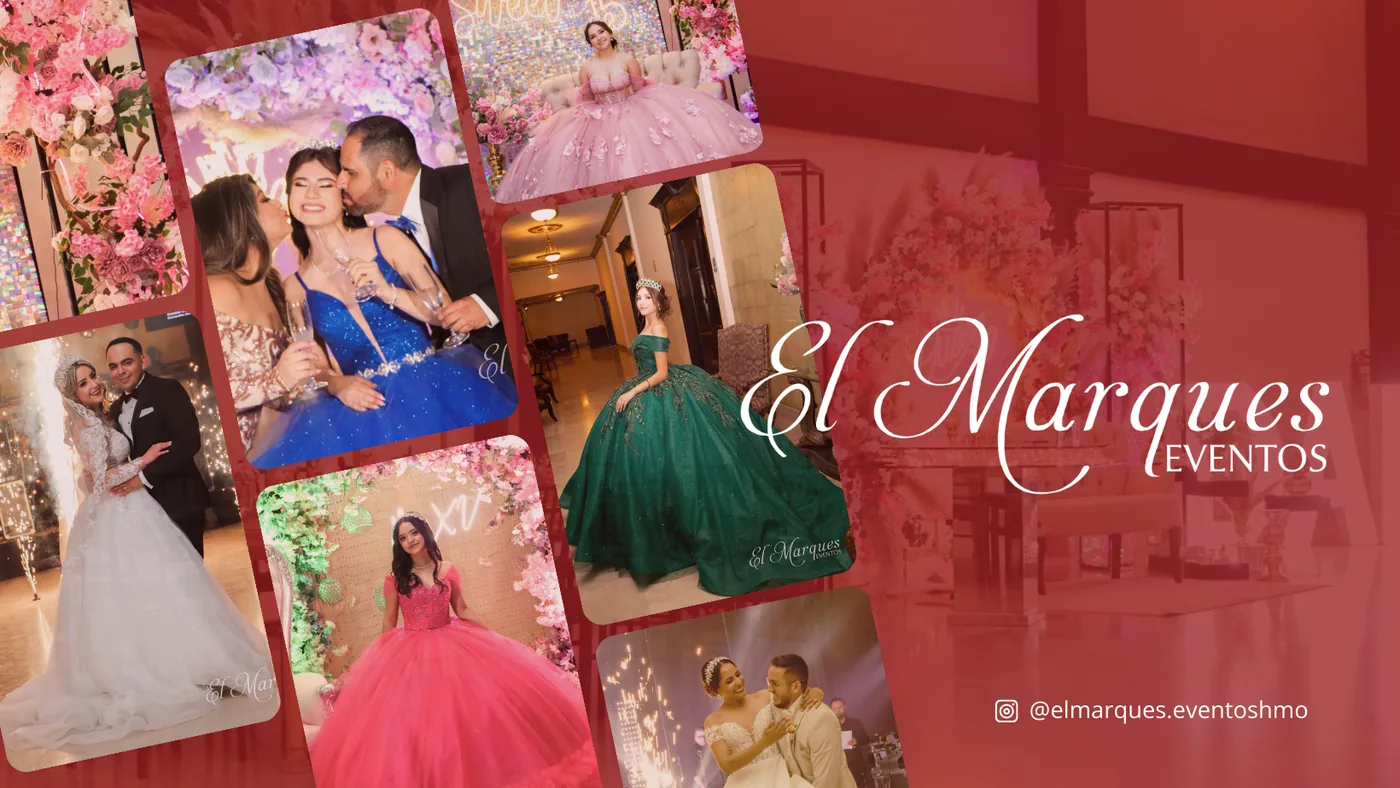
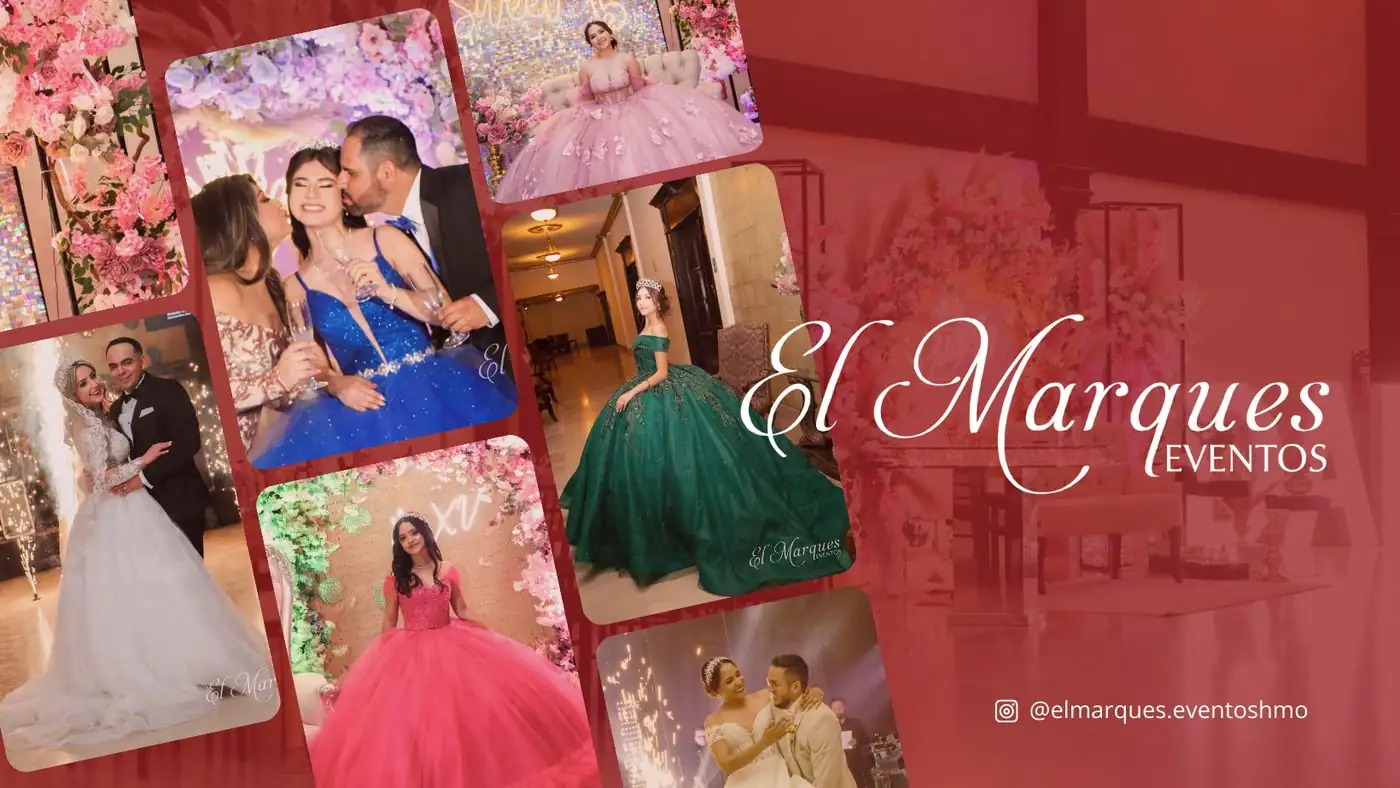
perf: optimizaciones móvil – preconnects, hero WebP, CSS async
- Agrega crossorigin a preconnects de Firebase/Firestore/googleapis
  (sin crossorigin, el browser no reutilizaba la conexión para CORS fetch)
- Elimina preconnect de apis.google.com (>4 warnings Lighthouse)
- Agrega <link rel=preload> para hero-fallback.webp en index.html
- Hace animations.css y responsive.css no-bloqueantes (media=print)
  en todas las páginas (solo keyframes y reveal, no crítico para FCP)
- Recomprime hero-fallback.webp: 131 KB → 79 KB (quality 60)
- CSS cache: 1 día → 1 semana en firebase.json

diff --git a/index.html b/index.html
@@ -19,11 +19,11 @@
   <script type="application/ld+json" id="schema-localbusiness"></script>
   <link rel="preconnect" href="https://fonts.googleapis.com">
   <link rel="preconnect" href="https://fonts.gstatic.com" crossorigin>
-  <link rel="preconnect" href="https://salon-primavera.firebaseapp.com">
-  <link rel="preconnect" href="https://firestore.googleapis.com">
-  <link rel="preconnect" href="https://www.googleapis.com">
-  <link rel="preconnect" href="https://apis.google.com">
+  <link rel="preconnect" href="https://salon-primavera.firebaseapp.com" crossorigin>
+  <link rel="preconnect" href="https://firestore.googleapis.com" crossorigin>
+  <link rel="preconnect" href="https://www.googleapis.com" crossorigin>
   <link rel="preload" as="image" href="assets/logo.webp" type="image/webp">
+  <link rel="preload" as="image" href="assets/hero-fallback.webp" type="image/webp">
   <link rel="stylesheet" href="https://fonts.googleapis.com/css2?family=Great+Vibes&family=Cormorant+Garamond:ital,wght@0,300;0,400;0,600;1,300;1,400&family=Playfair+Display:ital,wght@0,400;0,700;1,400&display=swap" media="print" onload="this.media='all'">
   <noscript><link rel="stylesheet" href="https://fonts.googleapis.com/css2?family=Great+Vibes&family=Cormorant+Garamond:ital,wght@0,300;0,400;0,600;1,300;1,400&family=Playfair+Display:ital,wght@0,400;0,700;1,400&display=swap"></noscript>
   <link rel="icon" type="image/jpeg" href="assets/logo.jpg">
@@ -31,8 +31,10 @@
   <link rel="stylesheet" href="css/reset.css">
   <link rel="stylesheet" href="css/layout.css">
   <link rel="stylesheet" href="css/components.css">
-  <link rel="stylesheet" href="css/animations.css">
-  <link rel="stylesheet" href="css/responsive.css">
+  <link rel="stylesheet" href="css/animations.css" media="print" onload="this.media='all'">
+  <noscript><link rel="stylesheet" href="css/animations.css"></noscript>
+  <link rel="stylesheet" href="css/responsive.css" media="print" onload="this.media='all'">
+  <noscript><link rel="stylesheet" href="css/responsive.css"></noscript>
 </head>
 <body>
 

diff --git a/espacios.html b/espacios.html
@@ -6,10 +6,10 @@
   <title>Nuestros Espacios – Eventos El Marqués | Ciudad Obregón</title>
   <link rel="preconnect" href="https://fonts.googleapis.com">
   <link rel="preconnect" href="https://fonts.gstatic.com" crossorigin>
-  <link rel="preconnect" href="https://salon-primavera.firebaseapp.com">
-  <link rel="preconnect" href="https://firestore.googleapis.com">
-  <link rel="preconnect" href="https://www.googleapis.com">
-  <link rel="preconnect" href="https://apis.google.com">
+  <link rel="preconnect" href="https://salon-primavera.firebaseapp.com" crossorigin>
+  <link rel="preconnect" href="https://firestore.googleapis.com" crossorigin>
+  <link rel="preconnect" href="https://www.googleapis.com" crossorigin>
+  
   <link rel="preload" as="image" href="assets/logo.webp" type="image/webp">
   <link rel="stylesheet" href="https://fonts.googleapis.com/css2?family=Playfair+Display:wght@400;600;700&display=swap" media="print" onload="this.media='all'">
   <noscript><link rel="stylesheet" href="https://fonts.googleapis.com/css2?family=Playfair+Display:wght@400;600;700&display=swap"></noscript>
@@ -17,8 +17,10 @@
   <link rel="stylesheet" href="css/reset.css">
   <link rel="stylesheet" href="css/layout.css">
   <link rel="stylesheet" href="css/components.css">
-  <link rel="stylesheet" href="css/animations.css">
-  <link rel="stylesheet" href="css/responsive.css">
+  <link rel="stylesheet" href="css/animations.css" media="print" onload="this.media='all'">
+  <noscript><link rel="stylesheet" href="css/animations.css"></noscript>
+  <link rel="stylesheet" href="css/responsive.css" media="print" onload="this.media='all'">
+  <noscript><link rel="stylesheet" href="css/responsive.css"></noscript>
 </head>
 <body>
   <!-- ══ PAGE HERO ════════════════════════════════════════════ -->

diff --git a/eventos.html b/eventos.html
@@ -6,10 +6,10 @@
   <title>Tipos de Eventos – Eventos El Marqués | Ciudad Obregón</title>
   <link rel="preconnect" href="https://fonts.googleapis.com">
   <link rel="preconnect" href="https://fonts.gstatic.com" crossorigin>
-  <link rel="preconnect" href="https://salon-primavera.firebaseapp.com">
-  <link rel="preconnect" href="https://firestore.googleapis.com">
-  <link rel="preconnect" href="https://www.googleapis.com">
-  <link rel="preconnect" href="https://apis.google.com">
+  <link rel="preconnect" href="https://salon-primavera.firebaseapp.com" crossorigin>
+  <link rel="preconnect" href="https://firestore.googleapis.com" crossorigin>
+  <link rel="preconnect" href="https://www.googleapis.com" crossorigin>
+  
   <link rel="preload" as="image" href="assets/logo.webp" type="image/webp">
   <link rel="stylesheet" href="https://fonts.googleapis.com/css2?family=Playfair+Display:wght@400;600;700&display=swap" media="print" onload="this.media='all'">
   <noscript><link rel="stylesheet" href="https://fonts.googleapis.com/css2?family=Playfair+Display:wght@400;600;700&display=swap"></noscript>
@@ -17,8 +17,10 @@
   <link rel="stylesheet" href="css/reset.css">
   <link rel="stylesheet" href="css/layout.css">
   <link rel="stylesheet" href="css/components.css">
-  <link rel="stylesheet" href="css/animations.css">
-  <link rel="stylesheet" href="css/responsive.css">
+  <link rel="stylesheet" href="css/animations.css" media="print" onload="this.media='all'">
+  <noscript><link rel="stylesheet" href="css/animations.css"></noscript>
+  <link rel="stylesheet" href="css/responsive.css" media="print" onload="this.media='all'">
+  <noscript><link rel="stylesheet" href="css/responsive.css"></noscript>
 </head>
 <body>
   <!-- ══ PAGE HERO ════════════════════════════════════════════ -->

diff --git a/disponibilidad.html b/disponibilidad.html
@@ -6,10 +6,10 @@
   <title>Disponibilidad – Eventos El Marqués | Ciudad Obregón</title>
   <link rel="preconnect" href="https://fonts.googleapis.com">
   <link rel="preconnect" href="https://fonts.gstatic.com" crossorigin>
-  <link rel="preconnect" href="https://salon-primavera.firebaseapp.com">
-  <link rel="preconnect" href="https://firestore.googleapis.com">
-  <link rel="preconnect" href="https://www.googleapis.com">
-  <link rel="preconnect" href="https://apis.google.com">
+  <link rel="preconnect" href="https://salon-primavera.firebaseapp.com" crossorigin>
+  <link rel="preconnect" href="https://firestore.googleapis.com" crossorigin>
+  <link rel="preconnect" href="https://www.googleapis.com" crossorigin>
+  
   <link rel="preload" as="image" href="assets/logo.webp" type="image/webp">
   <link rel="stylesheet" href="https://fonts.googleapis.com/css2?family=Playfair+Display:wght@400;600;700&display=swap" media="print" onload="this.media='all'">
   <noscript><link rel="stylesheet" href="https://fonts.googleapis.com/css2?family=Playfair+Display:wght@400;600;700&display=swap"></noscript>
@@ -17,8 +17,10 @@
   <link rel="stylesheet" href="css/reset.css">
   <link rel="stylesheet" href="css/layout.css">
   <link rel="stylesheet" href="css/components.css">
-  <link rel="stylesheet" href="css/animations.css">
-  <link rel="stylesheet" href="css/responsive.css">
+  <link rel="stylesheet" href="css/animations.css" media="print" onload="this.media='all'">
+  <noscript><link rel="stylesheet" href="css/animations.css"></noscript>
+  <link rel="stylesheet" href="css/responsive.css" media="print" onload="this.media='all'">
+  <noscript><link rel="stylesheet" href="css/responsive.css"></noscript>
 </head>
 <body>
   <!-- ══ PAGE HERO ════════════════════════════════════════════ -->

diff --git a/contacto.html b/contacto.html
@@ -6,10 +6,10 @@
   <title>Cotiza tu Evento – El Marqués | Hermosillo, Sonora</title>
   <link rel="preconnect" href="https://fonts.googleapis.com">
   <link rel="preconnect" href="https://fonts.gstatic.com" crossorigin>
-  <link rel="preconnect" href="https://salon-primavera.firebaseapp.com">
-  <link rel="preconnect" href="https://firestore.googleapis.com">
-  <link rel="preconnect" href="https://www.googleapis.com">
-  <link rel="preconnect" href="https://apis.google.com">
+  <link rel="preconnect" href="https://salon-primavera.firebaseapp.com" crossorigin>
+  <link rel="preconnect" href="https://firestore.googleapis.com" crossorigin>
+  <link rel="preconnect" href="https://www.googleapis.com" crossorigin>
+  
   <link rel="preload" as="image" href="assets/logo.webp" type="image/webp">
   <link rel="stylesheet" href="https://fonts.googleapis.com/css2?family=Playfair+Display:wght@400;600;700&display=swap" media="print" onload="this.media='all'">
   <noscript><link rel="stylesheet" href="https://fonts.googleapis.com/css2?family=Playfair+Display:wght@400;600;700&display=swap"></noscript>
@@ -17,8 +17,10 @@
   <link rel="stylesheet" href="css/reset.css">
   <link rel="stylesheet" href="css/layout.css">
   <link rel="stylesheet" href="css/components.css">
-  <link rel="stylesheet" href="css/animations.css">
-  <link rel="stylesheet" href="css/responsive.css">
+  <link rel="stylesheet" href="css/animations.css" media="print" onload="this.media='all'">
+  <noscript><link rel="stylesheet" href="css/animations.css"></noscript>
+  <link rel="stylesheet" href="css/responsive.css" media="print" onload="this.media='all'">
+  <noscript><link rel="stylesheet" href="css/responsive.css"></noscript>
 </head>
 <body>
   <!-- ══ PAGE HERO ════════════════════════════════════════════ -->

diff --git a/nosotros.html b/nosotros.html
@@ -6,10 +6,10 @@
   <title>Nosotros – Eventos El Marqués | Ciudad Obregón</title>
   <link rel="preconnect" href="https://fonts.googleapis.com">
   <link rel="preconnect" href="https://fonts.gstatic.com" crossorigin>
-  <link rel="preconnect" href="https://salon-primavera.firebaseapp.com">
-  <link rel="preconnect" href="https://firestore.googleapis.com">
-  <link rel="preconnect" href="https://www.googleapis.com">
-  <link rel="preconnect" href="https://apis.google.com">
+  <link rel="preconnect" href="https://salon-primavera.firebaseapp.com" crossorigin>
+  <link rel="preconnect" href="https://firestore.googleapis.com" crossorigin>
+  <link rel="preconnect" href="https://www.googleapis.com" crossorigin>
+  
   <link rel="preload" as="image" href="assets/logo.webp" type="image/webp">
   <link rel="stylesheet" href="https://fonts.googleapis.com/css2?family=Playfair+Display:wght@400;600;700&display=swap" media="print" onload="this.media='all'">
   <noscript><link rel="stylesheet" href="https://fonts.googleapis.com/css2?family=Playfair+Display:wght@400;600;700&display=swap"></noscript>
@@ -17,8 +17,10 @@
   <link rel="stylesheet" href="css/reset.css">
   <link rel="stylesheet" href="css/layout.css">
   <link rel="stylesheet" href="css/components.css">
-  <link rel="stylesheet" href="css/animations.css">
-  <link rel="stylesheet" href="css/responsive.css">
+  <link rel="stylesheet" href="css/animations.css" media="print" onload="this.media='all'">
+  <noscript><link rel="stylesheet" href="css/animations.css"></noscript>
+  <link rel="stylesheet" href="css/responsive.css" media="print" onload="this.media='all'">
+  <noscript><link rel="stylesheet" href="css/responsive.css"></noscript>
 </head>
 <body>
   <!-- ══ PAGE HERO ════════════════════════════════════════════ -->

diff --git a/galeria.html b/galeria.html
@@ -6,10 +6,10 @@
   <title>Eventos – El Marqués | Hermosillo, Sonora</title>
   <link rel="preconnect" href="https://fonts.googleapis.com">
   <link rel="preconnect" href="https://fonts.gstatic.com" crossorigin>
-  <link rel="preconnect" href="https://salon-primavera.firebaseapp.com">
-  <link rel="preconnect" href="https://firestore.googleapis.com">
-  <link rel="preconnect" href="https://www.googleapis.com">
-  <link rel="preconnect" href="https://apis.google.com">
+  <link rel="preconnect" href="https://salon-primavera.firebaseapp.com" crossorigin>
+  <link rel="preconnect" href="https://firestore.googleapis.com" crossorigin>
+  <link rel="preconnect" href="https://www.googleapis.com" crossorigin>
+  
   <link rel="preload" as="image" href="assets/logo.webp" type="image/webp">
   <link rel="stylesheet" href="https://fonts.googleapis.com/css2?family=Playfair+Display:wght@400;600;700&display=swap" media="print" onload="this.media='all'">
   <noscript><link rel="stylesheet" href="https://fonts.googleapis.com/css2?family=Playfair+Display:wght@400;600;700&display=swap"></noscript>
@@ -17,8 +17,10 @@
   <link rel="stylesheet" href="css/reset.css">
   <link rel="stylesheet" href="css/layout.css">
   <link rel="stylesheet" href="css/components.css">
-  <link rel="stylesheet" href="css/animations.css">
-  <link rel="stylesheet" href="css/responsive.css">
+  <link rel="stylesheet" href="css/animations.css" media="print" onload="this.media='all'">
+  <noscript><link rel="stylesheet" href="css/animations.css"></noscript>
+  <link rel="stylesheet" href="css/responsive.css" media="print" onload="this.media='all'">
+  <noscript><link rel="stylesheet" href="css/responsive.css"></noscript>
 </head>
 <body>
   <!-- ══ PAGE HERO ════════════════════════════════════════════ -->
